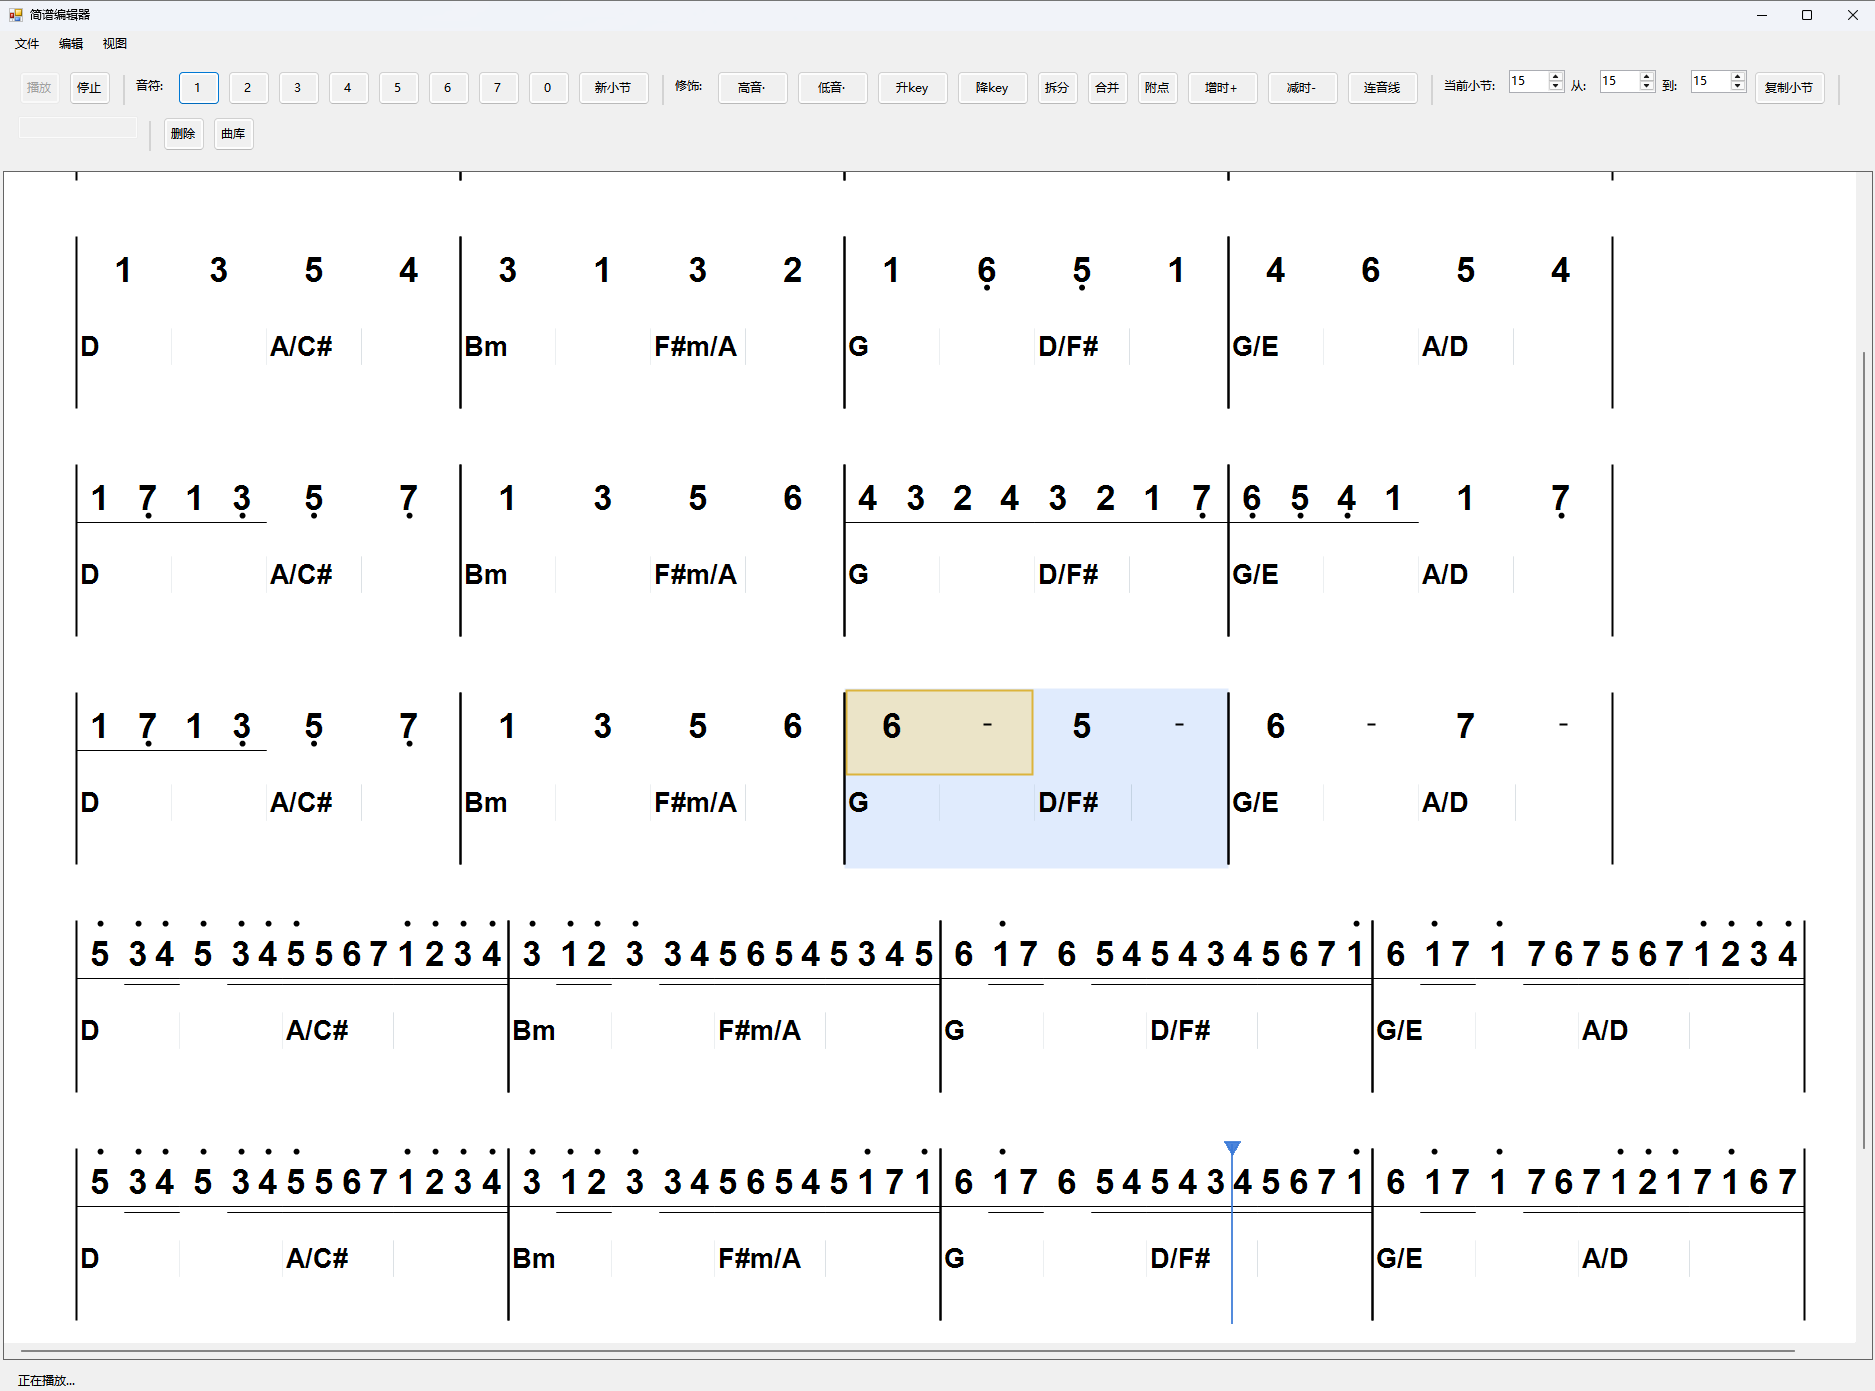
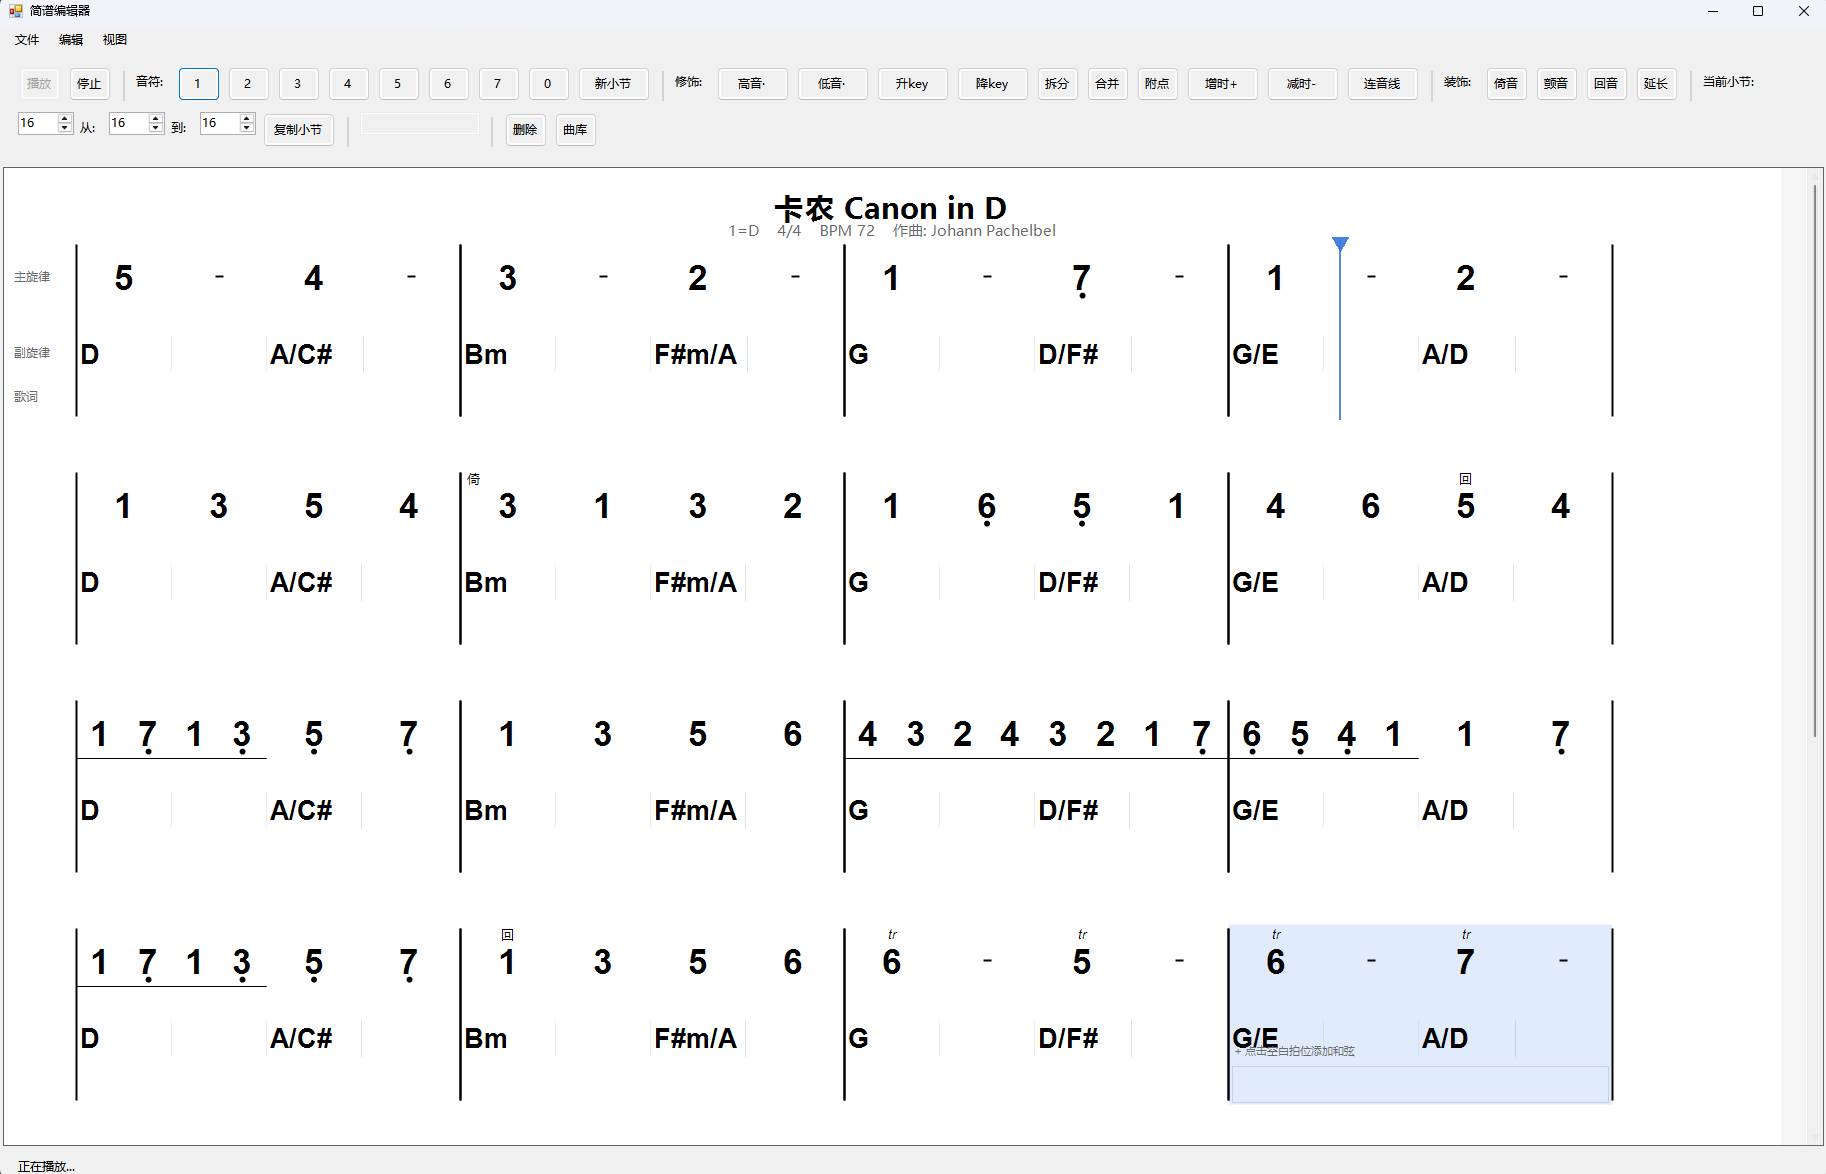
docs: update README and screenshot for ornament features (v1.3)

diff --git a/README.md b/README.md
@@ -1,6 +1,6 @@
 # 简谱编辑器 (JianpuEditor)
 
-基于 C# WinForms 的简谱编辑工具，支持主旋律编辑、和弦标识、歌词、连音线，以及 JSON 保存、PDF/MIDI 导出与谱面播放。
+基于 C# WinForms 的简谱编辑工具，支持主旋律编辑、装饰音、和弦标识、歌词、连音线，以及 JSON 保存、PDF/MIDI 导出与谱面播放。
 
 ![简谱编辑器界面截图](Screen%20Sample.png)
 
@@ -22,7 +22,14 @@
   - **合并**：小节内按音符序号两两配对 `(0,1)、(2,3)…` 合并；须谱面相邻、时值比 ≤ 2；音高取前一个；落单不处理
 - **撤回 / 重做**
   - 菜单 **编辑 → 撤回**（**Ctrl+Z**）/ **重做**（**Ctrl+Y**），逐步恢复或重放谱面编辑
-  - 覆盖音符编辑、删除、小节、转调、谱头 / 歌词 / 和弦内联编辑、连音线、批量歌词编辑等；新建 / 打开 / 加载谱面后清空撤回 / 重做栈
+  - 覆盖音符编辑、删除、小节、转调、谱头 / 歌词 / 和弦内联编辑、连音线、装饰音、批量歌词编辑等；新建 / 打开 / 加载谱面后清空撤回 / 重做栈
+- **装饰音**
+  - 工具栏「装饰」区：**倚音** / **颤音** / **回音** / **延长**；菜单 **编辑 → 装饰音** 提供相同入口
+  - 先选中一个或多个音符，再点击装饰按钮；多选时批量添加
+  - 再次点击同类型按钮可取消该音符上的同类型装饰（其他类型保留）
+  - Delete / 「删除」优先移除选中音符上的装饰音
+  - 画布与 PDF 导出在音符上方绘制占位符号（倚 / tr / 回 / 延）
+  - 谱面播放与 MIDI 导出会展开倚音、颤音、回音、波音与延长时值
 - **连音线**
   - 点「连音线」→ 选起始音符 → 选结束音符；Esc 取消
   - 点击弧线可选中（蓝色高亮）
@@ -54,12 +61,12 @@
 - **文件**：JSON 格式保存 / 打开
 - **PDF 导出**：A4 纵向，每行 4 小节；和弦仅输出文字，无编辑边框
 - **MIDI 导出**
-  - 主旋律按简谱时值与调号导出
+  - 主旋律按简谱时值与调号导出；装饰音展开为额外 MIDI 音符或延长时值
   - 和弦按拍位起止时间导出柱式和弦（如 `D`、`Bm7`、`G/D`）
   - 速度由 BPM 控制（与谱面「速度」文字独立）
 - **谱面播放**
   - 工具栏「播放 / 停止」，按 BPM 实时播放主旋律与和弦
-  - 可拖动蓝色进度条跳转；演奏逻辑与 MIDI 导出共用调度
+  - 可拖动蓝色进度条跳转；演奏逻辑与 MIDI 导出共用调度（含装饰音展开）
 
 ## 环境要求
 
@@ -133,6 +140,7 @@ git push origin v1.2.0
 | 拆分 / 合并 | 拆分或合并选中音符时值 |
 | 工具栏「从 / 到」+ 复制小节 | 复制指定范围的小节 |
 | 连音线 | 点「连音线」→ 选起始/结束音符；点击弧线选中，Delete 删除 |
+| 装饰音 | 选中音符后点工具栏「倚音 / 颤音 / 回音 / 延长」；再次点击同按钮取消 |
 | 撤回 / 重做 | **编辑 → 撤回 / 重做** 或 **Ctrl+Z** / **Ctrl+Y** |
 | 播放 / 停止 | 按 BPM 播放谱面；拖动蓝色进度条可跳转 |
 | 转调 | 菜单「编辑 → 和弦转调...」；仅转调和弦标识 |
@@ -182,7 +190,7 @@ git push origin v1.2.0
 曲谱保存为 JSON（`.json` / `.jianpu`），主要字段：
 
 - `Title`、`KeySignature`、`Tempo`、`Bpm`、`Composer`
-- `Measures[]`：每小节含 `MelodyNotes`、`ChordMarkers`、`LyricText`、`LyricSyllables`
+- `Measures[]`：每小节含 `MelodyNotes`、`ChordMarkers`、`LyricText`、`LyricSyllables`、`Ornaments`
 - `Ties[]`：连音线（起始/结束小节与音符索引）
 
 小节字段说明：
@@ -193,8 +201,9 @@ git push origin v1.2.0
 | `ChordMarkers[]` | `{ "Text": "C", "BeatPosition": 0 }` |
 | `LyricText` | 歌词整行文本 |
 | `LyricSyllables[]` | 逐音节歌词，`{ "Text": "你", "NoteIndex": 0, "BeatPosition": 0 }`；有数据时画布按音符逐字绘制 |
+| `Ornaments[]` | 装饰音，`{ "Type": "Trill", "NoteIndex": 0, "BeatPosition": 0 }`；`Type` 为枚举名（如 `GraceNote`、`Trill`、`Turn`、`Fermata`） |
 
-打开旧谱面时，若仅有 `LyricText` 而无 `LyricSyllables`，仍按整行显示；执行重新对齐或批量编辑并勾选对齐后，会生成音节数据。
+打开旧谱面时，若仅有 `LyricText` 而无 `LyricSyllables`，仍按整行显示；执行重新对齐或批量编辑并勾选对齐后，会生成音节数据。无 `Ornaments` 字段的旧文件可正常打开。
 
 `Tempo` 为谱面显示用语（如「中速」），`Bpm` 为播放与 MIDI 使用的每分钟拍数（默认 120）。
 
@@ -219,7 +228,7 @@ git push origin v1.2.0
 | **ViewModel** | `ViewModels/` | 编辑命令、谱面状态、选择协调；通过 `IAppMessenger` 发布 `ScoreEditedMessage` 等 |
 | **Model** | `Models/` | 纯 POCO：`JianpuScore`、小节、音符、和弦标识 |
 | **Core** | `Core/Abstractions/`、`Core/Messaging/` | 服务接口（`IScoreFileService`、`IScoreUndoService`、`IPdfExportService` 等）与消息总线 |
-| **Services** | `Services/` | 静态业务实现 + DI 适配器；含 `EditCommandHistory`（撤回 / 重做）、`LyricAlignmentService`、`BulkLyricEditService`、`NoteSplitMergeService`、`JianpuPitchService` 等 |
+| **Services** | `Services/` | 静态业务实现 + DI 适配器；含 `EditCommandHistory`（撤回 / 重做）、`OrnamentService`、`OrnamentPlaybackService`、`LyricAlignmentService`、`BulkLyricEditService`、`NoteSplitMergeService`、`JianpuPitchService` 等 |
 | **Rendering** | `Rendering/` | 布局、绘制、`AppTheme`（浅色/深色主题） |
 
 **数据流**：用户操作 → `MainForm` 调用 ViewModel 方法 → 返回 `ScoreEditResult` → `ScoreCanvasGlue` 更新画布 → `MainFormViewBinder` 同步控件。
@@ -244,7 +253,7 @@ JianpuEditor/
   installer/               # Inno Setup 安装脚本
   scripts/                 # 构建与测试脚本
   sample/                  # 示例曲库（.jianpu / .json）
-JianpuEditor.Tests/        # xUnit 单元测试（服务、ViewModel、Glue）
+JianpuEditor.Tests/        # xUnit 单元测试（199 个；服务、ViewModel、Glue、绘制）
 ```
 
 ## 依赖
